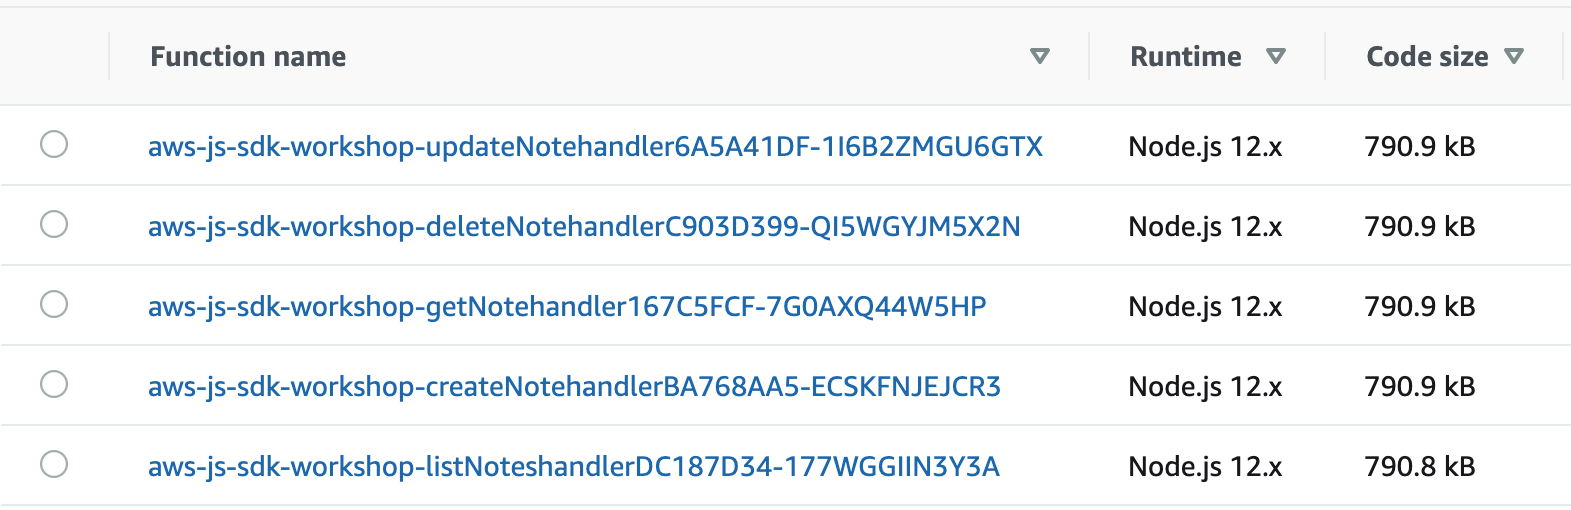
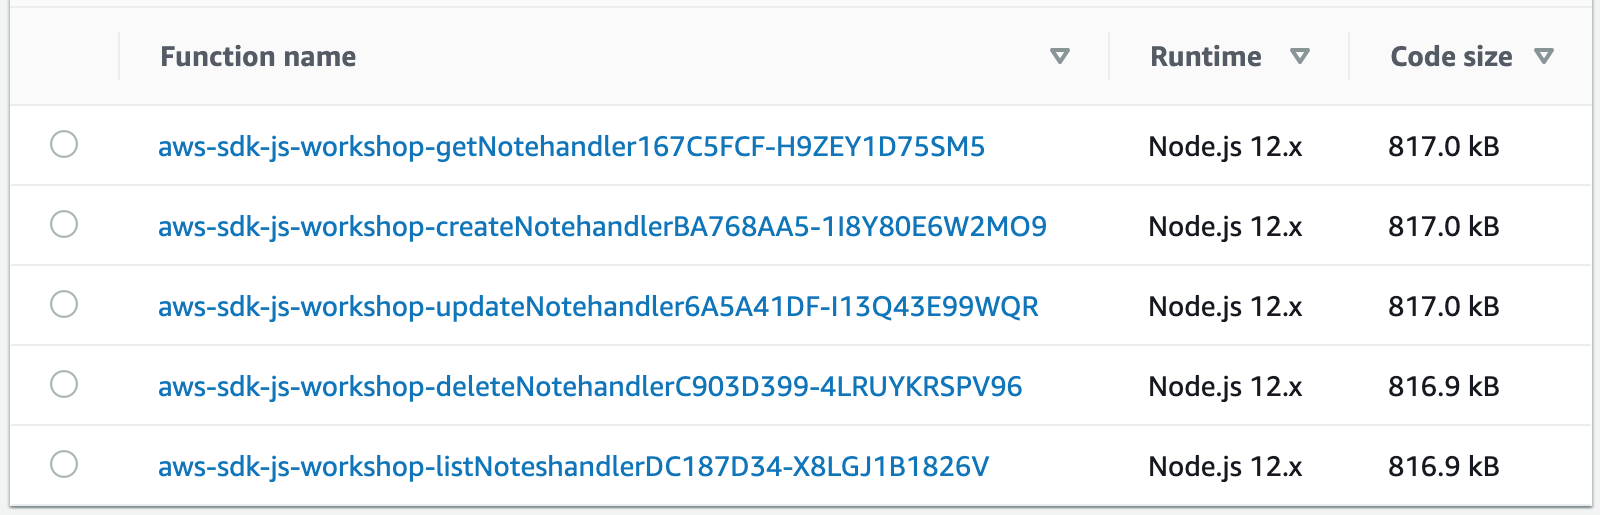
chore: update aws-lambda-v2.png

diff --git a/packages/backend/README.md b/packages/backend/README.md
@@ -49,7 +49,7 @@ In this section, we're going to update the code to import DynamoDB Client in dif
 ### Examine initial bundle size of lambda functions
 
 - Login to [AWS Lambda Console](https://console.aws.amazon.com/lambda/home)
-- The size of each lambda functions will be ~790kB
+- The size of each lambda functions will be ~820kB
 
   <details><summary>Click to view image</summary>
   <p>
